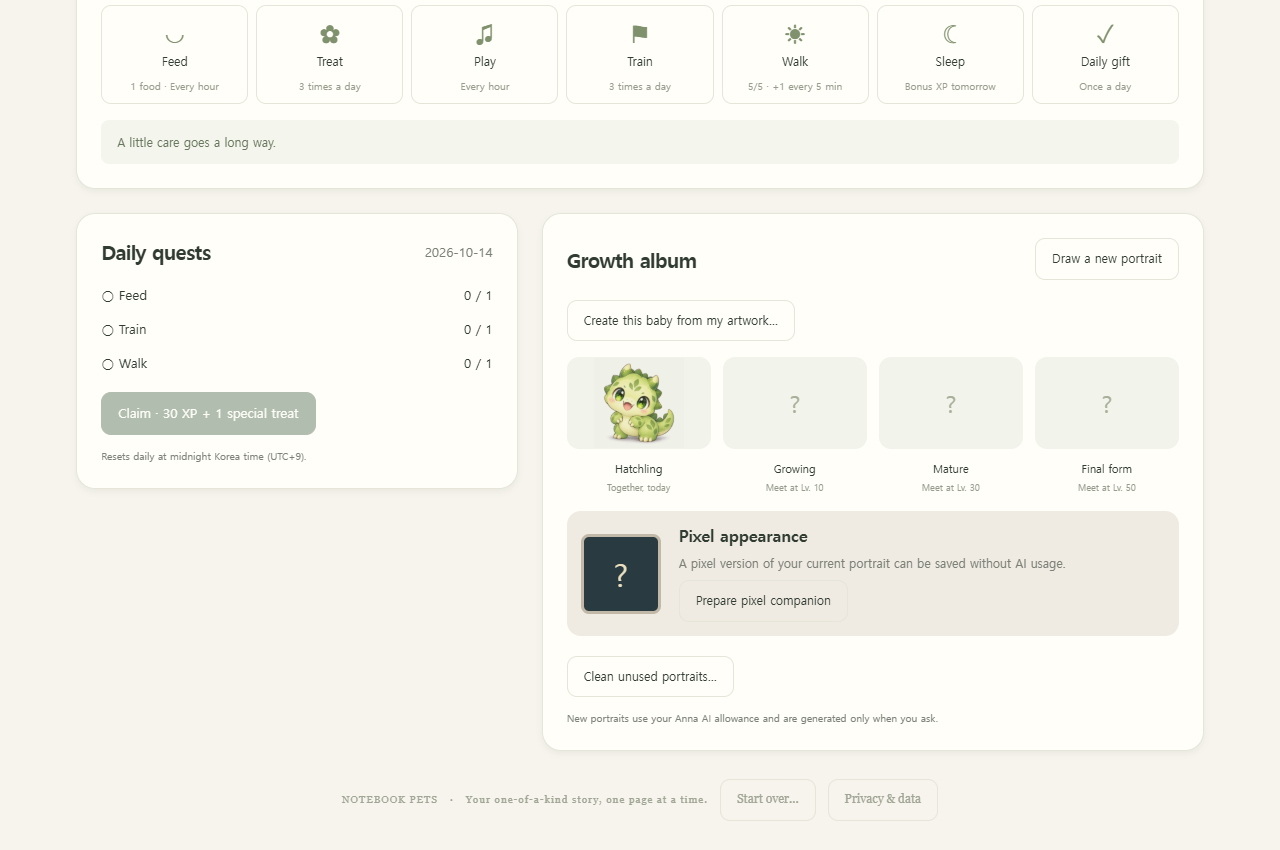
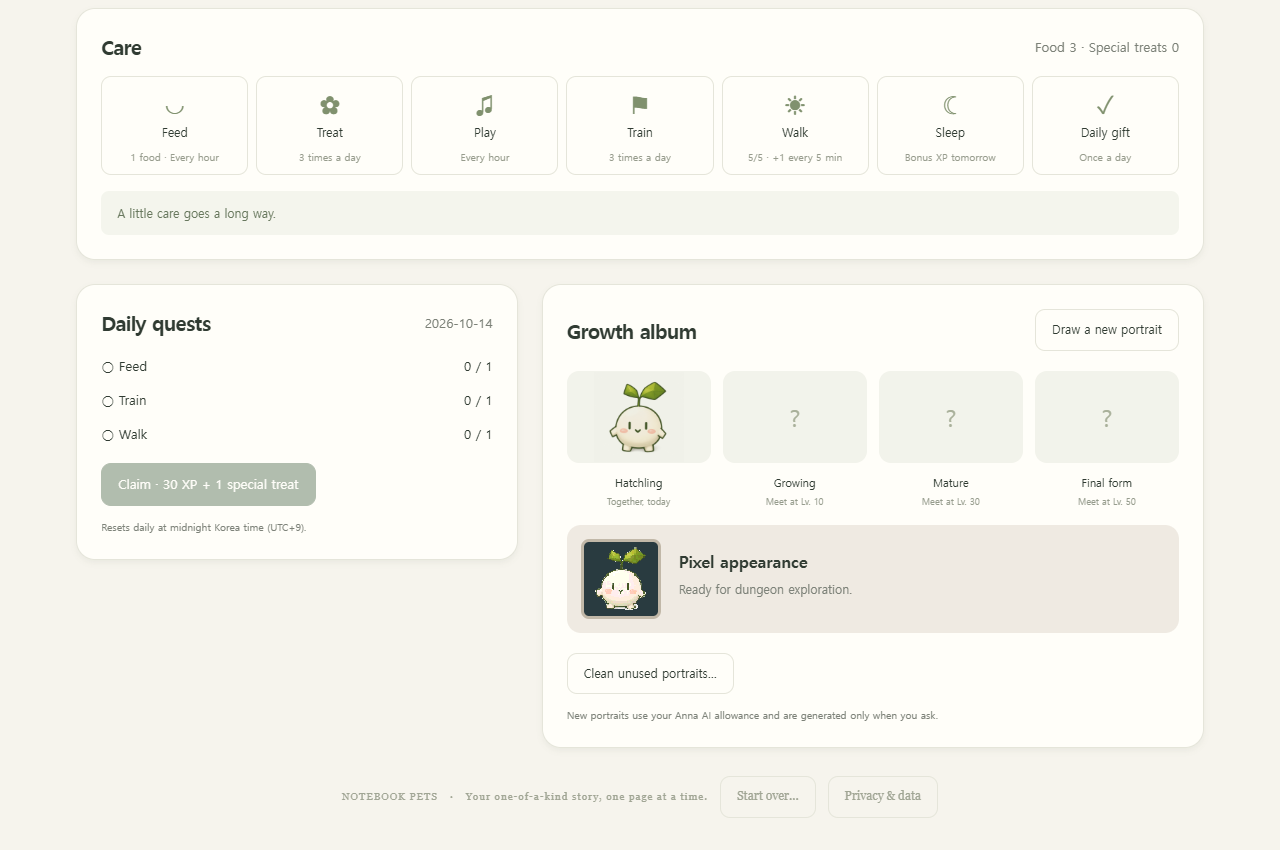
docs: show the actual Anna drawing result in store screenshots

diff --git a/anna/scripts/store_fixture.py b/anna/scripts/store_fixture.py
@@ -8,9 +8,14 @@ root = Path(__file__).resolve().parents[1]
 sys.path.insert(0, str(root / 'executas' / 'notebuddy'))
 from localization import localize
 
+demo_path = root / 'store/demo/provenance.json'
+demo = json.loads(demo_path.read_text(encoding='utf-8')) if demo_path.exists() else None
 
-def run(command, state=None):
+def run(command, state=None, **arguments):
     payload = {'command': command, 'state': state, 'name': 'Mori'}
+    payload.update(arguments)
+    if command == 'start' and demo:
+        payload.update(birth_species=demo['assessment']['species'], birth_element=demo['assessment']['element'])
     process = subprocess.run(
         [sys.executable, '-B', '-X', 'utf8', str(root / 'executas/notebuddy/game_worker.py')],
         input=json.dumps(payload), text=True, encoding='utf-8', capture_output=True, check=True)
@@ -23,6 +28,8 @@ def run(command, state=None):
 
 for attempt in range(40):
     state, initial = run('start')
+    if demo and demo.get('personality'):
+        state, initial = run('personality', state, profile=json.dumps(demo['personality']))
     state, discovery = run('walk_begin', state)
     if any(entry['discovered'] for entry in discovery['status']['dungeons']['entries']):
         if discovery['status'].get('encounter'):

diff --git a/anna/store/README.md b/anna/store/README.md
@@ -1,15 +1,17 @@
 # Store screenshots — 0.8.1
 
-Captured on **2026-10-14** from the unchanged 0.8.1 UI bundle, using isolated views produced by the actual Python game worker. No production account, Anna storage, paid AI request or fabricated AI conversation was used. `capture.json` records the version and demonstration companion. The screenshots are browser captures, not generated UI mockups.
+Captured on **2026-10-14** from the unchanged 0.8.1 UI bundle, using isolated views produced by the actual Python game worker. The featured companion **Mori** is the actual Anna-generated result of the original sprout doodle shown in the editor. The first listing image is the completed companion, followed by its reference drawing, album, dungeon and welcome screen. The screenshots are browser captures, not generated UI mockups.
 
 - `01-first-meeting.png`: first meeting and random/drawing/photo selection, 1280 × 1000.
-- `02-companion-and-care.png`: demonstration companion **Mori**, conversation area and care controls, 1280 × 1000.
+- `02-companion-and-care.png`: **Mori after drawing → Anna analysis → portrait generation**, conversation area and care controls, 1280 × 1000. This is the first image in the listing.
 - `03-care-and-album.png`: daily quests, growth album and pixel preparation, 1280 × 850.
-- `04-draw-your-companion.png`: reference editor with a sketch drawn through its real pointer controls, 1280 × 1000.
+- `04-draw-your-companion.png`: the same sprout reference entered through the real drawing editor's pointer controls, 1280 × 1000.
 - `05-pixel-dungeon.png`: actual discovered-dungeon preview and the current companion's pixel silhouette, 1280 × 900. Entry is not pressed.
 
-`scripts/store_fixture.py` creates disposable games and performs real walk commands until a dungeon is discovered. The game values are not manually edited. `scripts/capture_store.mjs` serves the shipped files in a network-isolated browser with read-only host responses; it does not certify Anna installation, AI quality or production persistence. The personality is not initialized and chat is empty, so no model-generated result is implied.
+`demo/reference.png` was drawn with `scripts/store_drawing.mjs`. The unmodified app functions `checkArtwork` and `birthPrompt` supplied the normal analysis and generation requests to Anna. Anna returned **plant / nature**, the portrait in `demo/portrait.png`, and a personality using the unchanged `personalityPrompt`/`parsePersonality` flow. Preparation used **three Anna AI calls**: one analysis, one image generation, one personality initialization. `demo/provenance.json` records their results and image hashes, without credentials or signed URLs. The pixel portrait is the existing app's local conversion of this same generated portrait.
 
-Reproduce from `anna/` with `node scripts/capture_store.mjs` after preparing the existing assets and dependencies. The random demonstration companion may differ on a recapture. All five images were visually checked before metadata synchronization. `app.json` references the local files; Anna CLI uploads them through the official listing screenshot API.
+`scripts/store_fixture.py` creates disposable games with those analyzed birth traits, commits the real generated personality through the engine, and performs walk commands until a dungeon is discovered. Game values are not manually edited. `scripts/capture_store.mjs` serves the shipped files in a network-isolated browser with read-only host responses and the recorded art. Capture makes **no additional AI calls or production storage calls**, and no real user's data is changed. Chat is empty; no conversation is fabricated. These captures do not certify native installation or production persistence.
 
-The earlier screenshots were from 0.2.1 and have been replaced. Installed-runtime and persistence verification are recorded separately in [0.8.1 release notes](../RELEASE_081.md).
+Reproduce from `anna/` with `node scripts/capture_store.mjs` after preparing the existing assets and dependencies. This reuses the recorded Anna outputs, checks the source and result hashes, and refuses a starter-image fallback. The randomly discovered dungeon may differ on a recapture. All five images were visually checked before metadata synchronization. `app.json` references the local files in display order; Anna CLI uploads them through the official listing screenshot API.
+
+The first 0.8.1 screenshot set showed a random starter and an unrelated sketch; this revision replaces them with the same original drawing and its actual generated companion. Installed-runtime and persistence verification are recorded separately in [0.8.1 release notes](../RELEASE_081.md).

diff --git a/anna/HANDOFF.md b/anna/HANDOFF.md
@@ -1,3 +1,11 @@
+# 소개 스크린샷: 그림으로 만든 실제 결과 반영 · 2026-10-14
+
+사용자가 기본 캐릭터·편집 화면만 있는 소개 이미지 대신 그린 뒤 완성된 모습을 요청했다. 앱의 실제 그림판에서 새싹 친구를 그리고, 변경하지 않은 `checkArtwork` → `birthPrompt`로 Anna 분석·이미지 생성을 실행했다. 성격도 실제 `personalityPrompt`로 생성했다. AI 요청은 분석·그림·성격 각 1회이며, 사용자 게임·그림·대화 저장소에는 접근하거나 쓰지 않았다.
+
+같은 그림과 결과 **Mori(식물·자연)**를 격리 엔진 상태와 연결해 메인·앨범·픽셀 던전을 다시 캡처했다. 첫 소개 이미지는 **완성된 친구**, 두 번째는 **그 원본 그림**이며 이후 앨범·던전·첫 만남 순서다. 재현용 공개 데모 자산과 출처는 [store/README.md](store/README.md)에 기록했다. 화면 합성이나 별도 이미지 생성 도구로 만든 UI가 아니다.
+
+strict 검사, 그림·결과 SHA-256 일치, 기본 초상화로 대체되지 않음, 브라우저 오류 없음, 5장 육안 검수를 완료했다. `apps sync-meta`로 업로드 후 서버 재조회에서 **0.8.1 pending_review / ID 1370 / bundle 1271 / revision 44**와 소개 필드 일치·스크린샷 5장을 확인했다. CDN의 실제 첫 두 장도 다운로드하여 완성 결과→원본 순서를 확인했다. 앱 코드는 바꾸지 않아 심사 버전 재생성·재설치는 하지 않았다.
+
 # 0.8.1 심사 재제출 완료 · 2026-10-14
 
 사용자 요청에 따라 기존 **0.3.4** 심사 대상을 **0.8.1 / ID 1370 / bundle 1271**로 변경했다. 도구는 **0.6.0 / Executa version 746**, working revision은 **44** 그대로다. `apps submit-review notebuddy --json` 실행 후 독립 서버 재조회에서 **pending_review / review_candidate_version=0.8.1**을 확인했다. 승인·공개 완료는 아니다.

diff --git a/anna/RELEASE_081.md b/anna/RELEASE_081.md
@@ -2,6 +2,12 @@
 
 App **0.8.1**, unchanged game tool **0.6.0**. Owner test deployment verified on **2026-10-14 KST**. Initial deployment preserved review 0.3.4; the user's subsequent request updated the listing and resubmitted **0.8.1**, now **pending_review**.
 
+## Screenshot follow-up · 2026-10-14 KST
+
+- Replaced the initial random-starter demonstration with a matching drawing/result example. An original sprout doodle was entered through the actual editor; the unchanged app analysis, birth-image and personality prompts produced **Mori**, a plant/nature companion, through Anna. Preparation used one analysis, one image generation and one personality call. No production game/storage records were read or changed.
+- The listing now starts with the completed companion, then its reference drawing, followed by the album, the same companion's pixel dungeon preview and the welcome screen. Recorded outputs and hashes are in `store/demo/`; capture reuses them with no extra AI calls.
+- Strict validation, reference/result hash checks, no starter fallback, browser-error checks and visual inspection passed. `apps sync-meta` updated all five screenshots; the server still reports **0.8.1 pending_review**, candidate **1370**, bundle **1271**, revision **44**. The first two CDN images were downloaded and visually verified in the intended order. No new app cut, tool deployment or resubmission was needed for this listing-only update.
+
 ## Review resubmission · 2026-10-14 KST
 
 - Updated the public introduction for photo/drawing creation, personality and recorded experiences, six continuing walk arcs, three pixel dungeons and current AI usage. Charges recover every five minutes up to five, and each dungeon stage costs one charge. Random starters still use AI for personality creation.

diff --git a/anna/REVIEW_081.md b/anna/REVIEW_081.md
@@ -30,7 +30,7 @@ Chat, care reactions, walk narration, image analysis, image generation and perso
 
 The game tool has sequenced, idempotent actions and authoritative rewards. Per-user storage contains game progress, bounded interaction memories/personality, up to 24 recent chat messages, reference images/descriptions, portraits and the current walk story. The privacy notice explains reset/removal and platform/provider retention separately. No user's chat is deliberately placed into another user's context.
 
-Live image-to-image accessory editing, a cosmetic shop and manual dungeon movement are outside this release. AI wording and visual similarity vary. The feature screenshots use isolated demonstration data, not real account records.
+Live image-to-image accessory editing, a cosmetic shop and manual dungeon movement are outside this release. AI wording and visual similarity vary. The feature screenshots use isolated demonstration data, not real account records. The sprout doodle and completed companion are a matching reference/result pair from the app's actual Anna analysis and generation prompts; the same portrait appears in the album and dungeon. See [screenshot provenance](store/README.md).
 
 ## Validation
 
